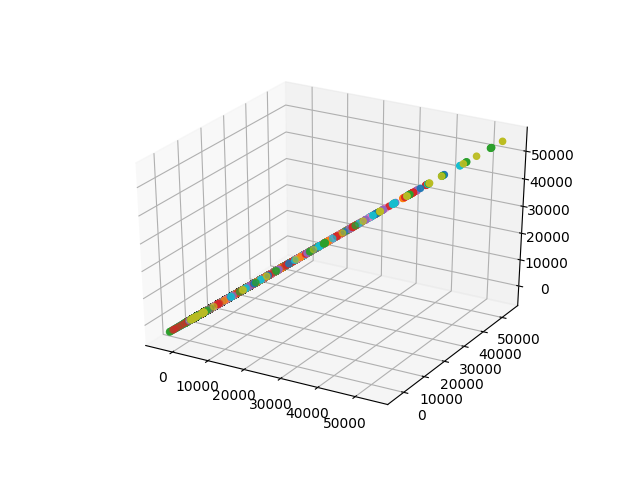
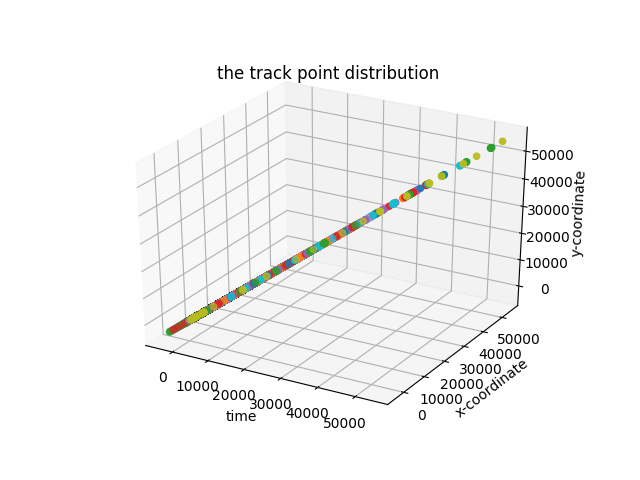
track point distribution

diff --git a/src/set_traning_data.py b/src/set_traning_data.py
@@ -1,0 +1,86 @@
+#coding: utf-8
+
+"""
+    set_traning_data.py
+    ```````````````````
+
+    将训练数据按照格式存储到redis数据库中
+
+    训练数据格式
+     __________________________________________
+    | a1      bigint      id                   |
+    | a2      string  (x, y, t) 鼠标移动轨迹   |
+    | a3      string  (x, y)    目标坐标       |
+    | Label   string  1(正常轨迹), 0(机器轨迹) |
+    |__________________________________________|
+
+    + redis: https://redis.io/
+        - 数据库是NoSql数据库, 适合简单的非关系型键值对存储以及用作缓存
+"""
+
+# Python redis-py 包, 提供redis数据库的Python接口
+## 文档: https://redis-py.readthedocs.io/en/latest/index.html#module-redis
+## 源代码: https://github.com/andymccurdy/redis-py
+import redis
+
+
+def read_traning_file(path):
+    """
+    从训练数据文件中读取数据
+    """
+    with open(path, 'rb') as f:
+        data = f.read()
+    # 使用with语句, 语句块结束后会自动做清除工作
+    # 这里就是自动关闭文件: f.close() 
+
+    # split 作用字符串, 根据split的参数将字符串截断
+    # 并将截断后的字符串放置到列表中供索引
+    # dsjtzs_txfz_traning.txt文件中, 每行是一个特定id的数据
+    # 所以以换行符'\n'分割从文件中读出的字符串
+    data_list = data.split('\n')
+    return data_list
+
+
+def store_data_in_redis(data_list):
+    """
+    将数据格式化存入redis
+
+    思路:
+        data_list列表的每个元素就是特定id的数据字符串,例如第0个元素(id=1的数据)
+
+        1 353,2607,349;367,2607,376;388,2620,418;416,2620,442;500,2620,493;584,2620,547;675,2620,592;724,2620,643;780,2620,694;822,2620,742;850,2633,793;885,2633,844;934,2633,895;983,2633,946;1060,2633,1006;1144,2633,1063;1235,2633,1093;1284,2633,1144;1312,2633,1210;1326,2633,1243;1333,2633,1354;1354,2633,1408;1375,2646,1450;1452,2659,1492;1473,2672,1543;1480,2672,1954;1487,2672,2050;1494,2672,2233;1501,2672,2245;1515,2672,2293;1515,2659,2347;1522,2659,2554;1529,2659,2722;1543,2659,2773;1550,2659,2794;1564,2659,2842;1578,2659,2893;1592,2659,2944;1599,2659,2992;1606,2659,3043;1613,2659,3100;1620,2659,3178;1634,2659,3220;1648,2659,3244;1669,2659,3301;1676,2646,3445;1690,2646,3490;1718,2633,3547;1732,2633,3592;1739,2633,3646;1732,2633,4930;1725,2633,4981;1718,2620,6466;1704,2620,6562;1704,2607,6598;1697,2607,7237; 1420.5,202 1
+
+        这行数据以分号分隔的是鼠标经过的轨迹点坐标(x, y, t).
+        但是第一个和最后一个是特例, 分别包含了空格分隔的id和label
+
+        所以第一个和最后一个单独处理, 提取出id和label.
+        剩下的轨迹点放入一个tracks列表中(不要漏了第一个起始点)
+        最后target(x, y)单独拿出
+    """ 
+    db.flushall() # 每次更新redis存储前清除旧数据
+    for data in data_list[:3000]:
+        subdatas = data.split(';')
+        id = subdatas[0].split()[0]  # 提取id
+        tracks = [subdatas[0].split()[1]]  # 先放入起始点
+        for subdata in subdatas[1:-1]:
+            tracks.append(subdata)  # 加入其余轨迹点
+        target = subdatas[-1].split()[0]  # 提取target
+        label = subdatas[-1].split()[1]  # 提取label
+        # 数据存储到redis数据库中的结构
+        ## {'id':
+        ##     {'target': 'x, y',
+        ##      'tracks': "['x1,y1,t1', 'x2,y2,t2']",
+        ##      'label': '1'
+        ##     }
+        ## }
+        # 数据存储到redis数据库中
+        db.hset(id, 'tracks', tracks) 
+        db.hset(id, 'target', target) 
+        db.hset(id, 'label', label) 
+    db.save()  # 保存数据
+
+
+if __name__ == '__main__':
+    db = redis.StrictRedis(host='127.0.0.1', port=6379)  # redis数据库连接句柄
+    data_list = read_traning_file('./ml/dsjtzs_txfz_traning.txt')
+    store_data_in_redis(data_list)

diff --git a/src/draw_data_tracks.py b/src/draw_data_tracks.py
@@ -5,6 +5,10 @@
     ```````````````````
 
     根据数据库中的测试数据绘制轨迹
+
+    + 使用matplotlib绘图
+        - 官方: https://matplotlib.org/
+        - 快速上手: https://zhuanlan.zhihu.com/p/28993962
 """
 
 import sys
@@ -30,18 +34,18 @@ def scatter3D_x_y_t(N):
             x.append(float(track.split(',')[0]))
             y.append(float(track.split(',')[1]))
             t.append(float(track.split(',')[2]))
-        ax.scatter3D(x, y, t)
-    fig1.savefig('./imgs/track.png')
+        ax.scatter3D(t, x, y)
+    fig1.savefig('track.png')
 
 
-def plot_v_dt(N):
+def plot_v_t(N):
     """
-    各个id数据的速度与dt的二维关系
+    各个id数据的速度与时间的二维关系
     机器轨迹: 绿色
     人类轨迹: 红色
     """
     for id in xrange(N):
-        v = dt = []
+        v = t = []
         tracks = eval(db.hget(id+1, 'tracks'))
         label = db.hget(id+1, 'label')
         for pos in range(len(tracks)-1):
@@ -60,18 +64,18 @@ def plot_v_dt(N):
 
             distance = math.sqrt(math.pow((x2-x1), 2) + math.pow((y2-y1), 2))
             _dt = t2 - t1
-            if _dt == 0:  # 有时间点相等的数据(比如2596)
+            if _dt == 0:  # 奇怪...有时间点相等的数据(比如2596)
                 continue
             _v = float(distance / _dt)
             
-            v.append(_v); dt.append(_dt)
+            v.append(_v); t.append(t1)
+        if label == '0':
+            ax.plot(t, v, 'C7')
+            ax_c.plot(t, v, 'C7')
         if label == '1':
-            ax.plot(dt, v, 'C3')
-            ax_m.plot(dt, v, 'C3')
-        else:
-            ax.plot(dt, v, 'C7')
-            ax_c.plot(dt, v, 'C7')
-    fig2.savefig('./imgs/v_dt.png')
+            ax.plot(t, v, 'C3')
+            ax_m.plot(t, v, 'C3')
+    fig2.savefig('v_t.png')
 
 
 if __name__ == '__main__':
@@ -80,6 +84,10 @@ if __name__ == '__main__':
     if sys.argv[1] == 'track':
         fig1 = plt.figure()
         ax = plt.axes(projection='3d')
+        ax.set_title('the track point distribution')
+        ax.set_xlabel('time')
+        ax.set_ylabel('x-coordinate')
+        ax.set_zlabel('y-coordinate')
         scatter3D_x_y_t(3000)
 
     if sys.argv[1] == 'speed':
@@ -88,4 +96,4 @@ if __name__ == '__main__':
         ax_m = axes.ravel()[2]  # 子图(人类)
         ax_c = axes.ravel()[3]  # 子图(电脑)
         axes.ravel()[1].axis('off') # 隐藏子图1
-        plot_v_dt(3000)
+        plot_v_t(3000)
